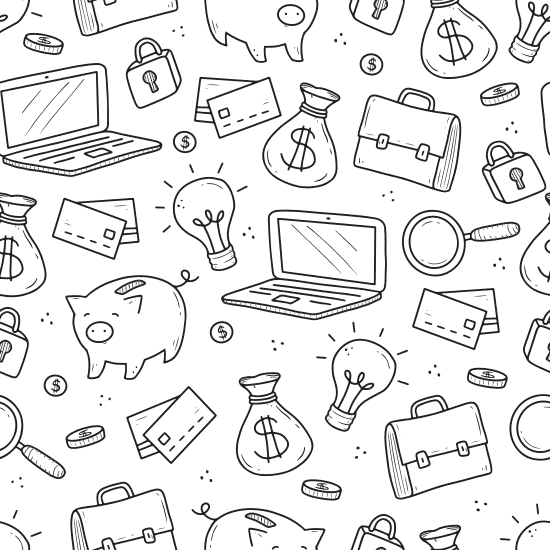
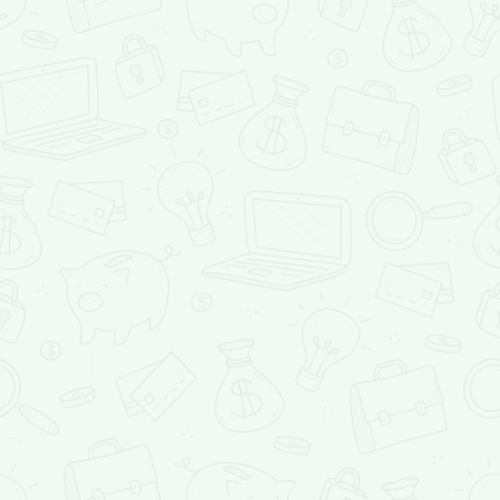
fixing background bug

diff --git a/static/css/style.css b/static/css/style.css
@@ -2,17 +2,4 @@ body {
   background-image: url("../images/pattern_bg.png");
   background-repeat: repeat;
   background-size: 400px 400px;
-  position: relative;
-}
-
-body::before {
-  content: "";
-  position: absolute;
-  top: 0;
-  left: 0;
-  right: 0;
-  bottom: 0;
-  background-color: rgba(241, 249, 242, 0.95);
-  pointer-events: none;
-  z-index: -1;
 }
